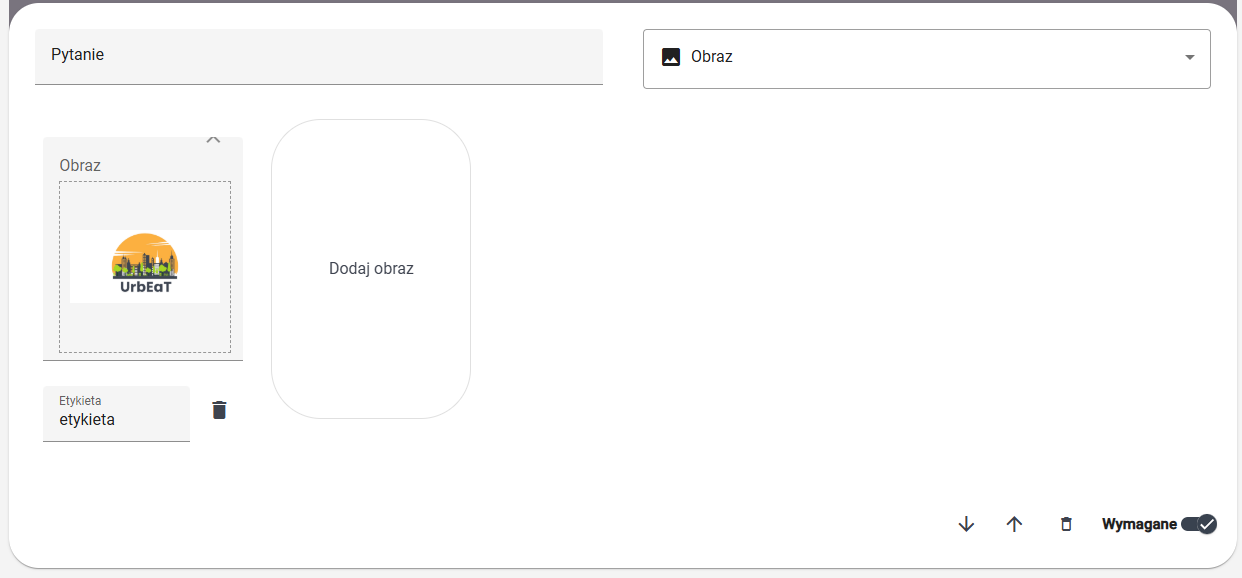
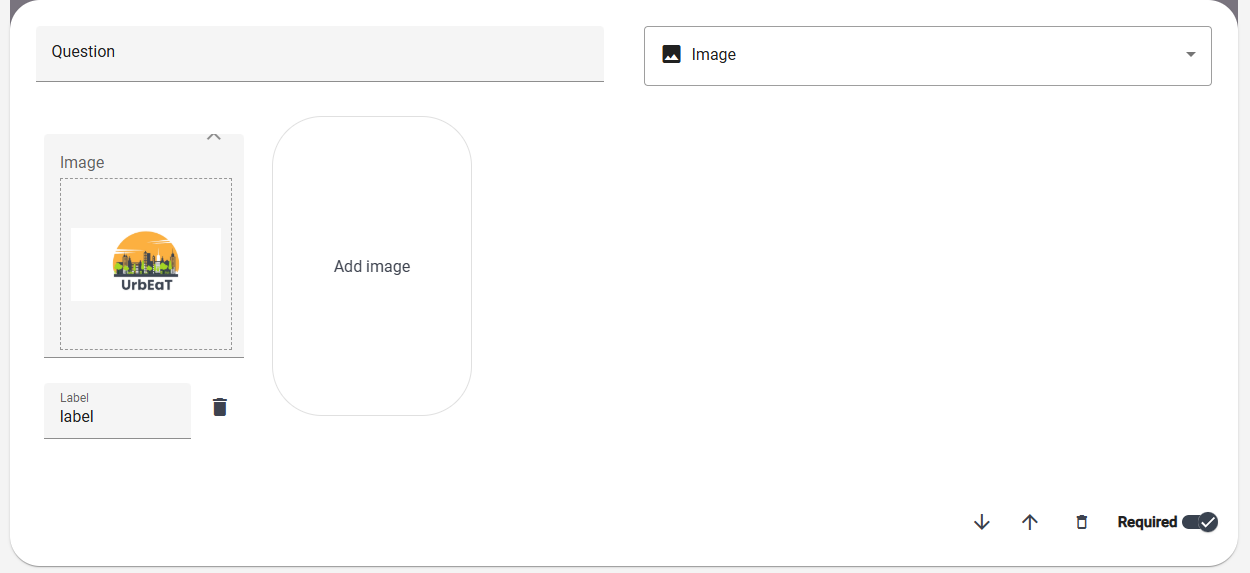
english creating surveys

diff --git a/docs/user_documentation/en/creating_survey/creating_survey.md b/docs/user_documentation/en/creating_survey/creating_survey.md
@@ -1,110 +1,110 @@
-# Tworzenie ankiet
+# Creating Surveys
 
-Aby przejść do modułu `Tworzenie ankiet`, wybierz odpowiednią zakładkę w bocznym panelu po lewej stronie ekranu
+To access the `Creating surveys` module, select the appropriate tab in the sidebar on the left side of the screen.
 
 ![alt text](imgs/turn_on.png)
 
-Moduł `Tworzenie ankiet` to kluczowa funkcjonalność systemu pozwalająca tworzyć ankiety. 
+The `Creating surveys` module is a key system feature that allows you to create surveys.
 
-Zmień nazwę ankiety z "Ankieta bez nazwy", na unikalną nazwę.
+Change the survey's name from "Untitled Survey" to a unique name.
 
-## Sekcje
+## Sections
 
-Pytania w ankietach są podzielone na sekcje. Każda ankieta może zawierać dowolną liczbę sekcji, a każda sekcja może zawierać dowolną liczbę pytań. Wciśnij `Dodaj sekcję`, aby dodać pierwszą sekcję.
+Questions in surveys are divided into sections. Each survey can contain any number of sections, and each section can contain any number of questions. Click `Add section` to add the first section.
 
 ![alt text](imgs/section.png)
 
-Dla sekcji możesz skonfigurować
+For each section, you can configure:
 
-- nazwę
-- widoczność
-- grupę (jeśli wybrano widoczność `Grupowa`)
-- ustawienie "Wyświetl na jednej stronie"
+- Name
+- Visibility
+- Group (if `Group` visibility is selected)
+- The "Display on one page" setting
 
-#### Nazwa sekcji
+#### Section Name
 
-Nazwa sekcji musi być unikalna dla danej ankiety
+The section name must be unique within the survey.
 
-#### Widoczność
+#### Visibility
 
-Widoczność sekcji może przyjąć jedną z następujących wartości:
-- `Zawsze`: sekcja zostanie wyświetlona wszystkim responedntom w każdych okolicznościach
-- `Grupowa`: sekcja zostanie wyświetlona tylko respondentom należącym do danej grupy (grupę tę można skonfigurować w pou niżej), gupy są powiązane z ankietą początkową (spójrz na dokument poświecony ankiecie początkowej)
-- `Po zaznaczeniu właściwej odpowiedzi`: sekcja zsotanie włączona tylko, jeśli respondent we wcześniejszym pytaniu zaznaczy właściwą odpowiedź (więcej szczegółów poniżej). **UWAGA** - ta opcja nie jest dostępna dla pierwszej sekcji w ankiecie
+Section visibility can be set to one of the following values:
+- `Always`: The section will be displayed to all respondents under any circumstances.
+- `Group`: The section will only be displayed to respondents belonging to a specific group (this group can be configured in the field below). Groups are associated with the initial survey (refer to the document dedicated to the initial survey).
+- `After choosing a specific answe`: The section will only be enabled if the respondent selects a specific answer in a previous question (more details below). **NOTE** - this option is not available for the first section in the survey.
 
-#### Ustawienie "Wyświetl na jednej stronie"
+#### "Display on one page" Setting
 
-Jeśli włączone, w aplikacji mobilnej sekcja zostanie wyświetlona respondentom na jednej stronie. W przeciwnym wypadku, każde pytanie zostanie wyświetlone na osobnej stronie.
+If enabled, the section will be displayed to respondents on a single page in the mobile app. Otherwise, each question will be displayed on a separate page.
 
-#### Usuwanie i przesuwanie sekcji
+#### Removing and Moving Sections
 
-Za pomocą przycisków
+Using the buttons:
 
 ![alt text](imgs/section_btns.png)
 
-możesz:
-- usunąć sekcję
-- przesunąć sekcję na dół
-- przesunąć sekcję na górę
+you can:
+- Remove a section
+- Move a section down
+- Move a section up
 
-## Pytania
+## Questions
 
-Domyślnie sekcja ma już utworzone jedno pytanie. Jeśli chcesz dodać więcej pytań, wciśnij `Dodaj pytanie`. Każde pytanie musi mieć unikalną w sekcji treść oraz może być oznaczone jako wymagane (domyślnie tak)
+By default, the section already includes one question. If you want to add more questions, click `Add Question`. Each question must have unique content within the section and can be marked as required (default is yes).
 
 ![alt text](imgs/question.png)
 
-#### Rodzaje pytań:
-1. Jednokrotny wybór 
+#### Question Types:
+1. Single Choice 
 
     ![alt text](imgs/single_choice.png)
 
-    Respondent musi wybrać dokładnie jedną opcję spośród podanych.
+    The respondent must select exactly one option from the provided choices.
 
-2. Wielokrotny wybór
+2. Multiple Choice
 
     ![alt text](imgs/multiple_choice.png)
 
-    Respondent musi wybrać conajmniej jedną (może wszystkie) opcję spośród podanych.
+    The respondent must select at least one option (but can select all) from the provided choices.
 
-3. Skala liniowa
+3. Linear Scale
 
     ![alt text](imgs/linear_scale.png)
 
-    Respondent musi wybrać liczbę z podanego zakresu. Możliwe jest skonfigurowanie etykiet "Od" i "Do".
+    The respondent must choose a number from the specified range. Labels for "From" and "To" can be configured.
 
-4. Tak/Nie - pytanie na które respondent może odpowiedzieć tylko "Tak" lub "Nie". Brak dodatkowej konfiguracji.
+4. Yes/No - A question where the respondent can only answer "Yes" or "No". No additional configuration is available.
 
-5. Liczba - pytanie, na które respondent może podać dowolną dodatnią liczbę całkowitą jako odpowiedź. Brak dodatkowej konfiguracji.
+5. Number - A question where the respondent can provide any positive integer as the answer. No additional configuration is available.
 
-6. Pole tekstowe - pytanie, na które respondent może udzielić dowolnej tekstowej odpowiedzi. Brak dodatkowej konfiguracji. 
+6. Text input - A question where the respondent can provide any text-based answer. No additional configuration is available.
 
-7. Obraz
+7. Image
 
     ![alt text](imgs/image.png)
 
-    Respontent musi wybrać dokłądnie jeden obrazek. **UWAGA** - etykieta będzie eksportowana w wynikach i nie będzie pokazywana respondentom.
+    The respondent must select exactly one image. **NOTE** - The label will be exported in the results but will not be shown to respondents.
 
-#### Usuwanie i przesuwanie pytań
+#### Removing and Moving Questions
 
-Za pomocą przycisków
+Using the buttons:
 
 ![alt text](imgs/question_btns.png)
 
-możesz:
-- przesunąć pytanie w dół
-- przesunąć pytanie w górę
-- usunąć pytanie
+you can:
+- Move a question down
+- Move a question up
+- Remove a question
 
-#### Sekcja z widocznością "Po zaznaczeniu właściwej odpowiedzi"
+#### Section with Visibility "Upon selecting a specific answer"
 
-Jeśli widoczność jakiejś sekcji jest ustawiona na "Po zaznaczeniu właściwej odpowiedzi", to można ją włączyć wyborem odpowiedniej opcji w pytaniu jednokrotnego, lub wielokrotnego wyboru. 
+If a section's visibility is set to "After choosing a specific answer", it can be enabled by selecting the appropriate option in a single-choice or multiple-choice question.
 
 ![alt text](imgs/answer_triggered_section.png)
 
-**UWAGA**
+**NOTE**
 
-W tym miejscy będą możliwe do wyboru wyłącznie sekcje, których widpoczność została ustawiona na "Po zaznaczeniu właściwej odpowiedzi"
+Only sections with visibility set to "After choosing a specific answer" will be selectable in this context.
 
-## Zapis
+## Saving
 
-Aby zapisać ankietę wciśnij przycisk `Zapisz` na dole. Zostaniesz przekierowany do szcegółów ankiety.
+To save the survey, press the `Save` button at the bottom. You will be redirected to the survey details view.
